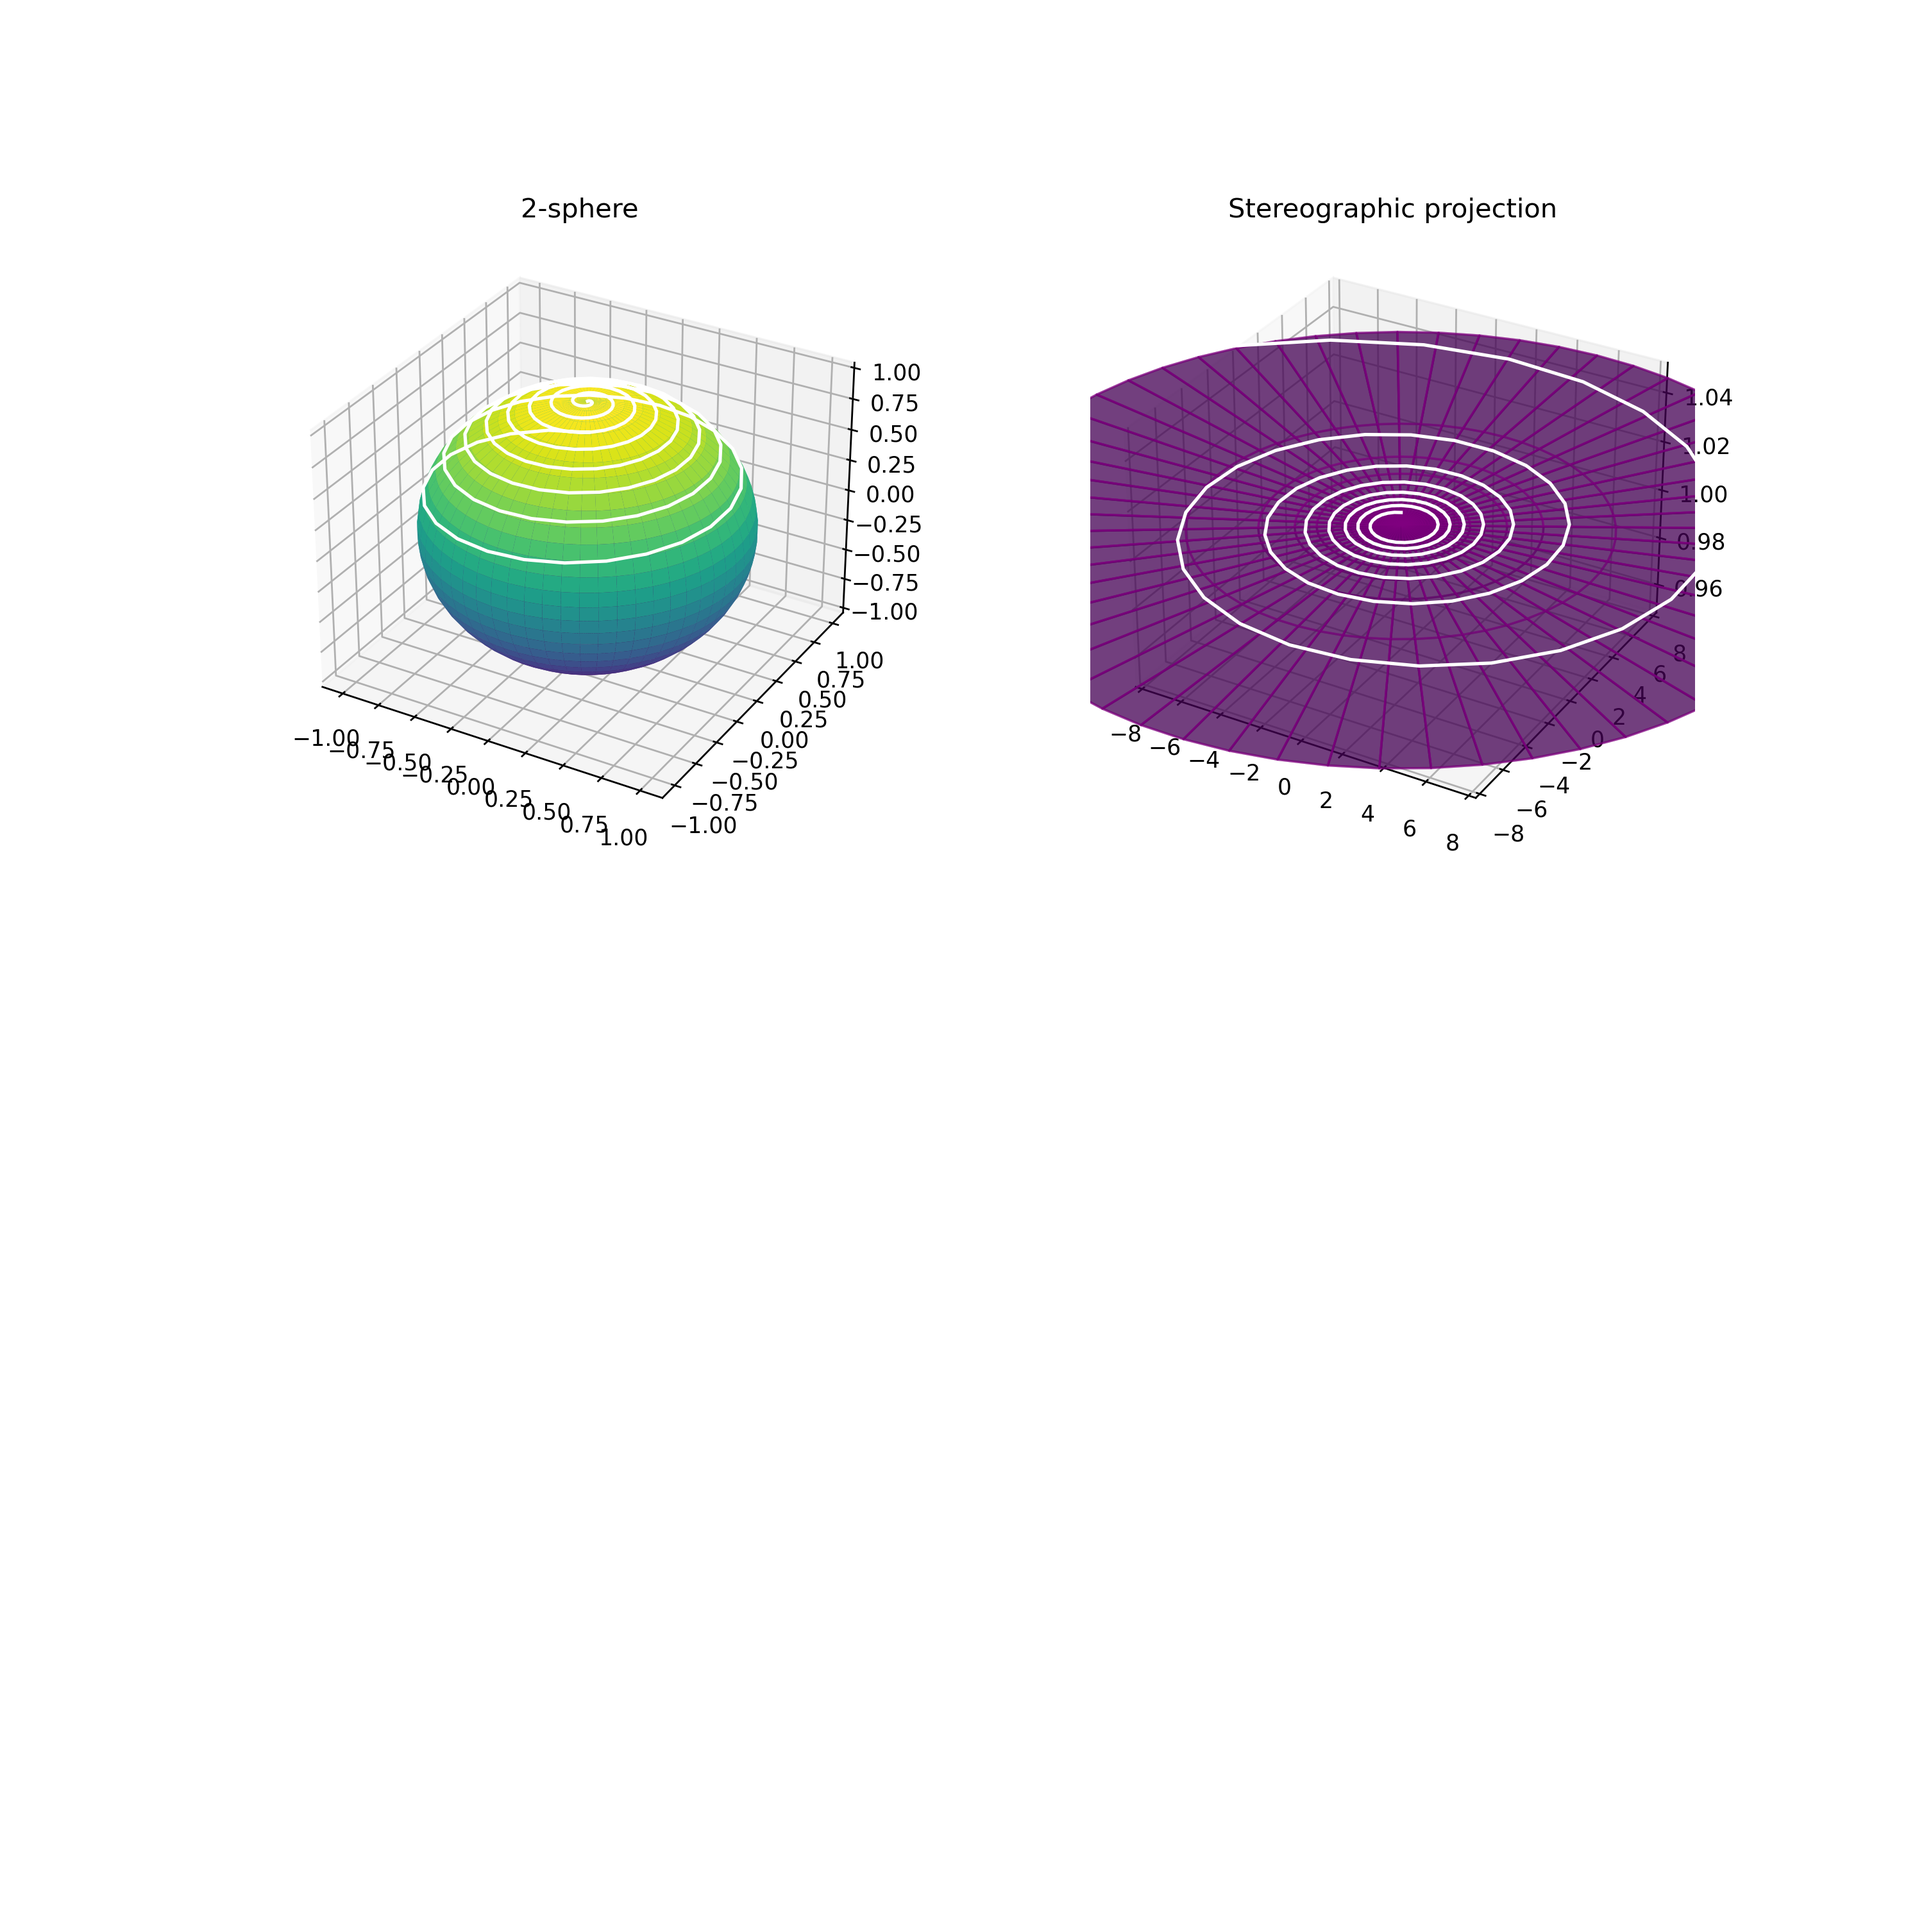
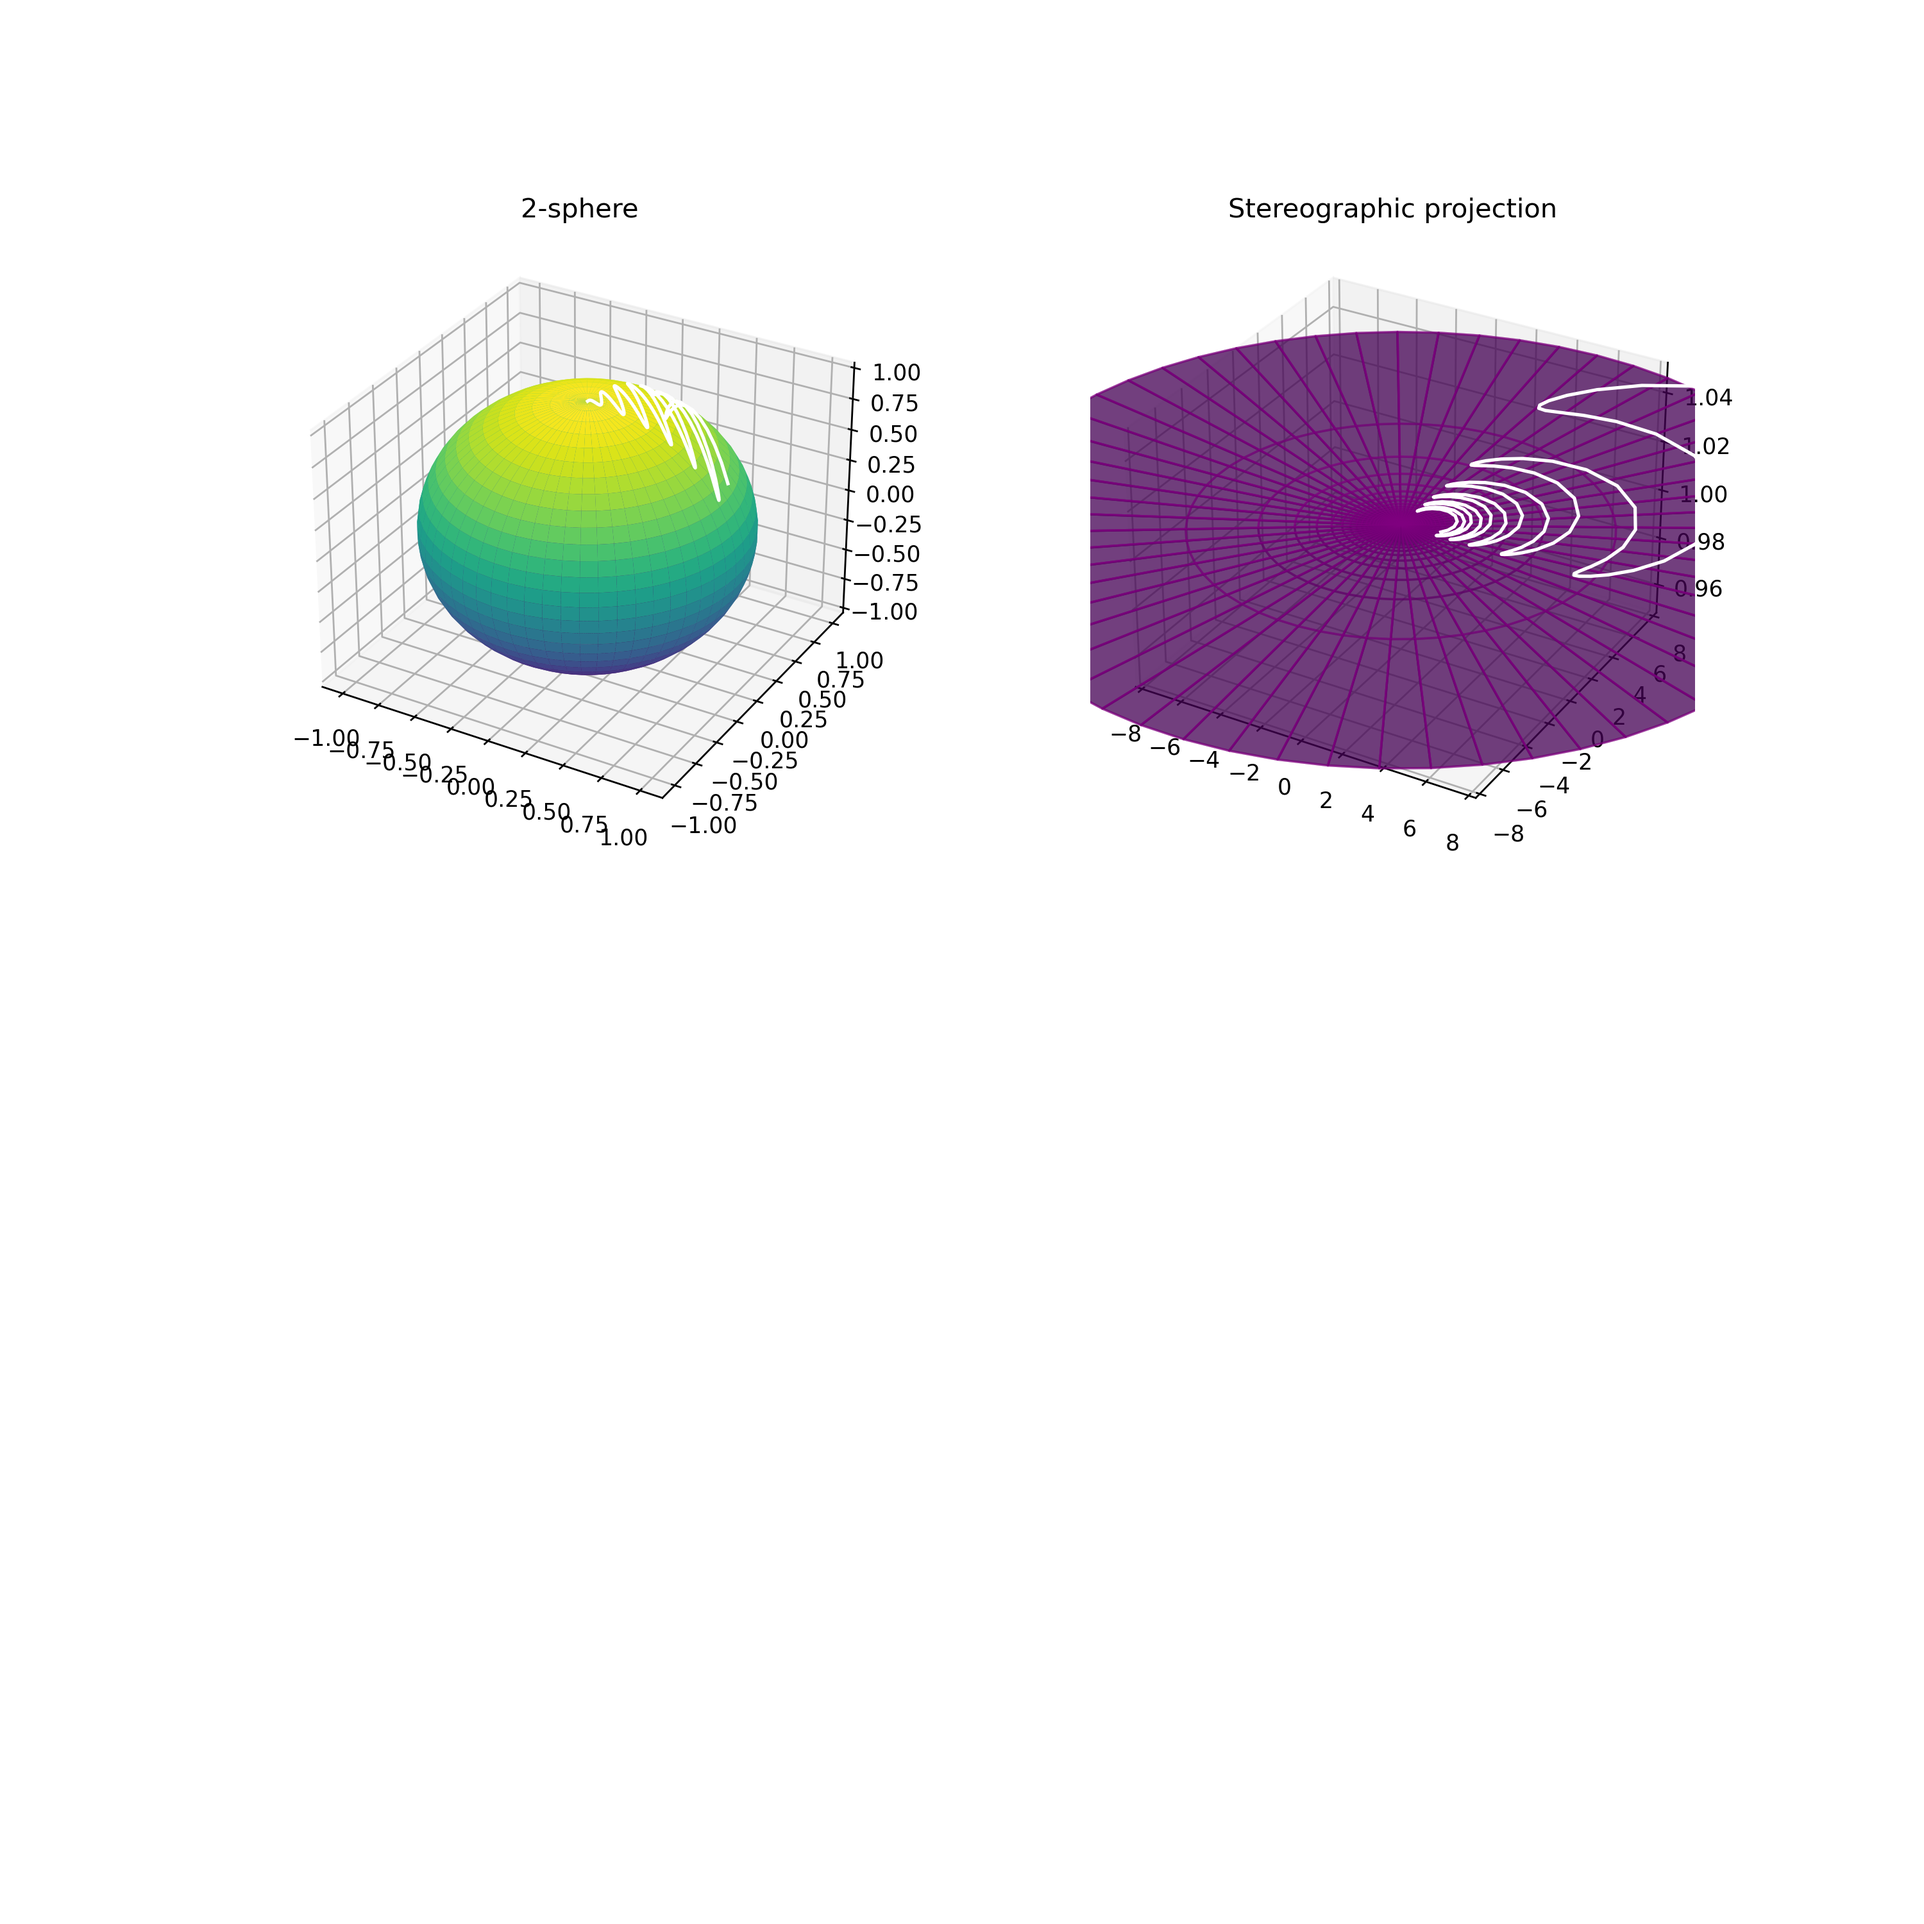
updates P5

Changed region(s): [[0.651, 0.217, 0.837, 0.31], [0.217, 0.186, 0.403, 0.279], [0.806, 0.186, 0.868, 0.217]]

diff --git a/Laboratorio/P5/practica5.py b/Laboratorio/P5/practica5.py
@@ -1,5 +1,5 @@
 """
-PRÁCTICA 5: PCA Y ANALOGÍA
+PRÁCTICA 5: DEFORMACIÓN DE VARIEDADES DIFERENCIABLES
 Belén Sánchez Centeno
 Martín Fernández de Diego
 """
@@ -25,8 +25,8 @@ y = np.outer(np.sin(u), np.cos(v))
 z = np.outer(np.cos(u), np.ones_like(v))
 
 t2 = np.linspace(0.001, 1, 200)
-x2 = abs(t2) * np.sin(100 * t2/2)
-y2 = abs(t2) * np.cos(100 * t2/2)
+x2 = abs(t2) * np.sin(40 * t2/2)**2
+y2 = abs(t2) * np.cos(40 * t2/2)**2
 z2 = np.sqrt(1-x2**2-y2**2)
 
 fig = plt.figure()
@@ -48,9 +48,6 @@ print("\n" + Formato.BOLD + "Apartado i)" + Formato.RESET)
 2-esfera proyectada
 """
 
-"""
-proyección
-"""
 def proj(x,z,z0=1,alpha=1):
     z0 = z*0+z0
     eps = 1e-16
